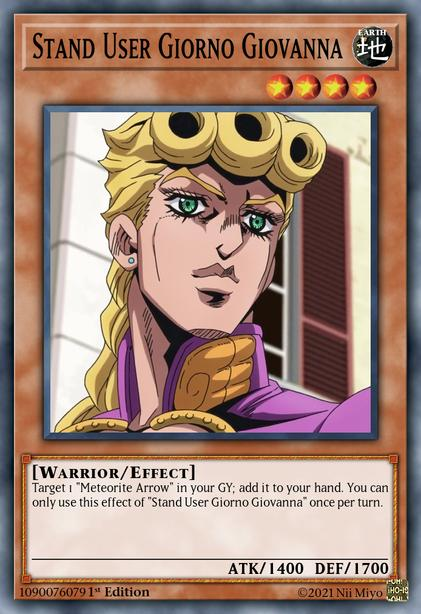
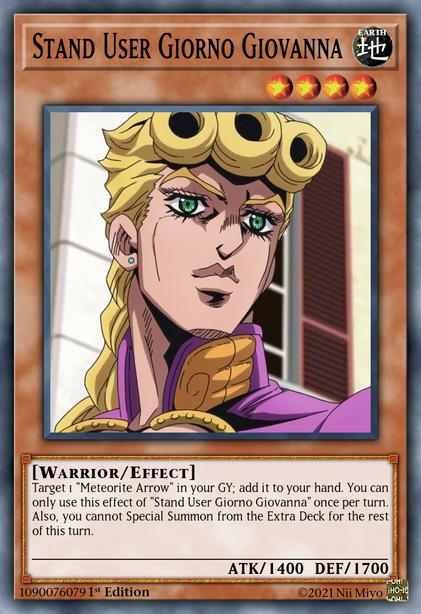
Joseph + Giorno nerf
- Added "Stand User Joseph Joestar" (code 1090076084) and "Stand Power Hermit Purple" (code 1090076085)
- Giorno's effect now prevents Special Summons from Extra Deck for the rest of the turn

Changed region(s): [[0.0618, 0.8046, 0.9264, 0.8974]]

diff --git a/README.md b/README.md
@@ -6,7 +6,7 @@ Made with [YGOFabrica](https://github.com/piface314/ygo-fabrica/), this project 
 
 - Parts 7 (Steel Ball Run) and 8 (JoJolion) are also intended to be added in the future.
 
-- For now, this expansion uses card codes from `1090076072` to `1090076083` and archetype codes from `0xf00` to `0xf01`. As more cards are added, the amount of codes may increase, so always make sure it does not conflict with other expansions you may use.
+- For now, this expansion uses card codes from `1090076072` to `1090076085` and archetype codes from `0xf00` to `0xf02`. As more cards are added, the amount of codes may increase, so always make sure it does not conflict with other expansions you may use.
 
 
 # Installation
